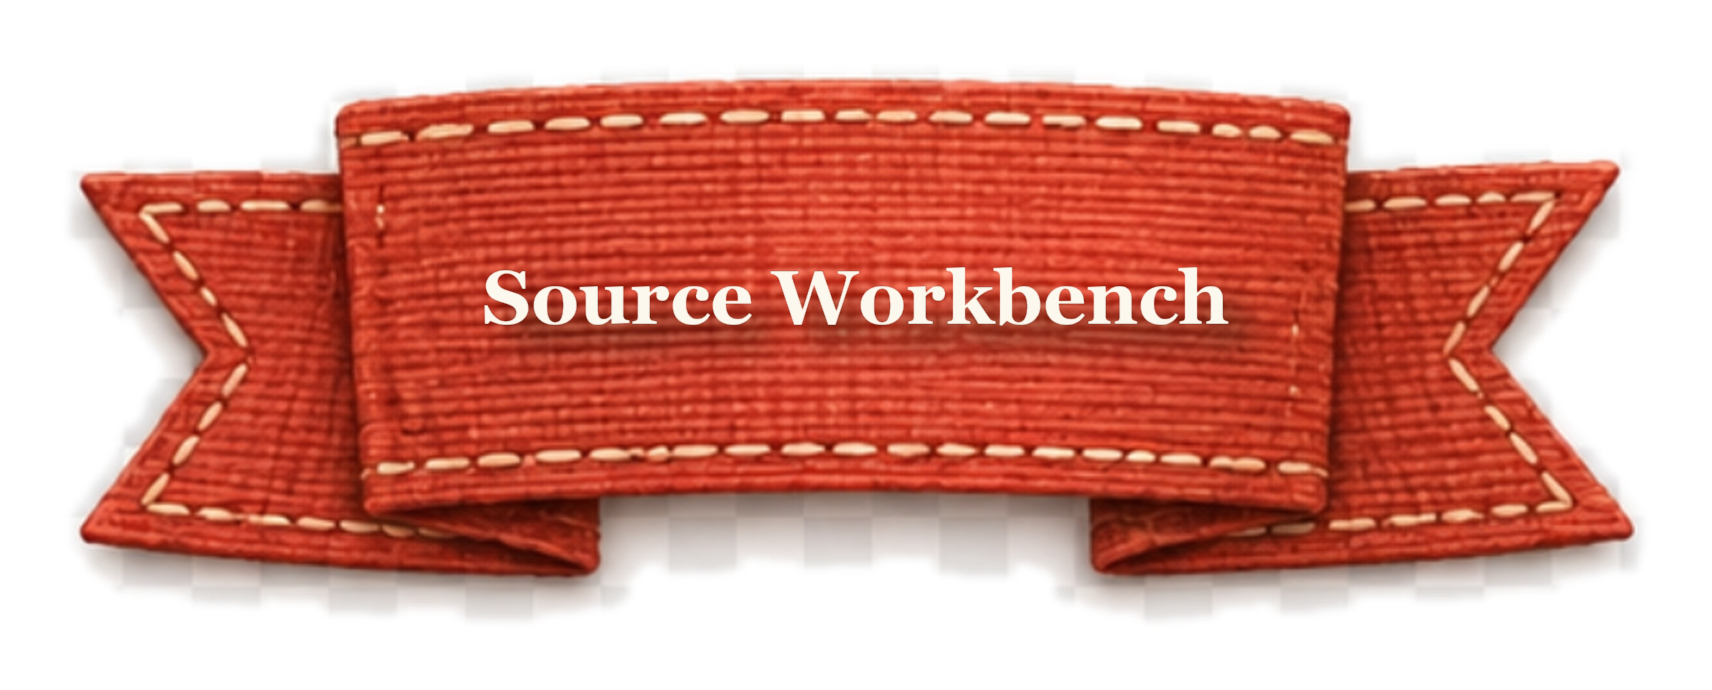
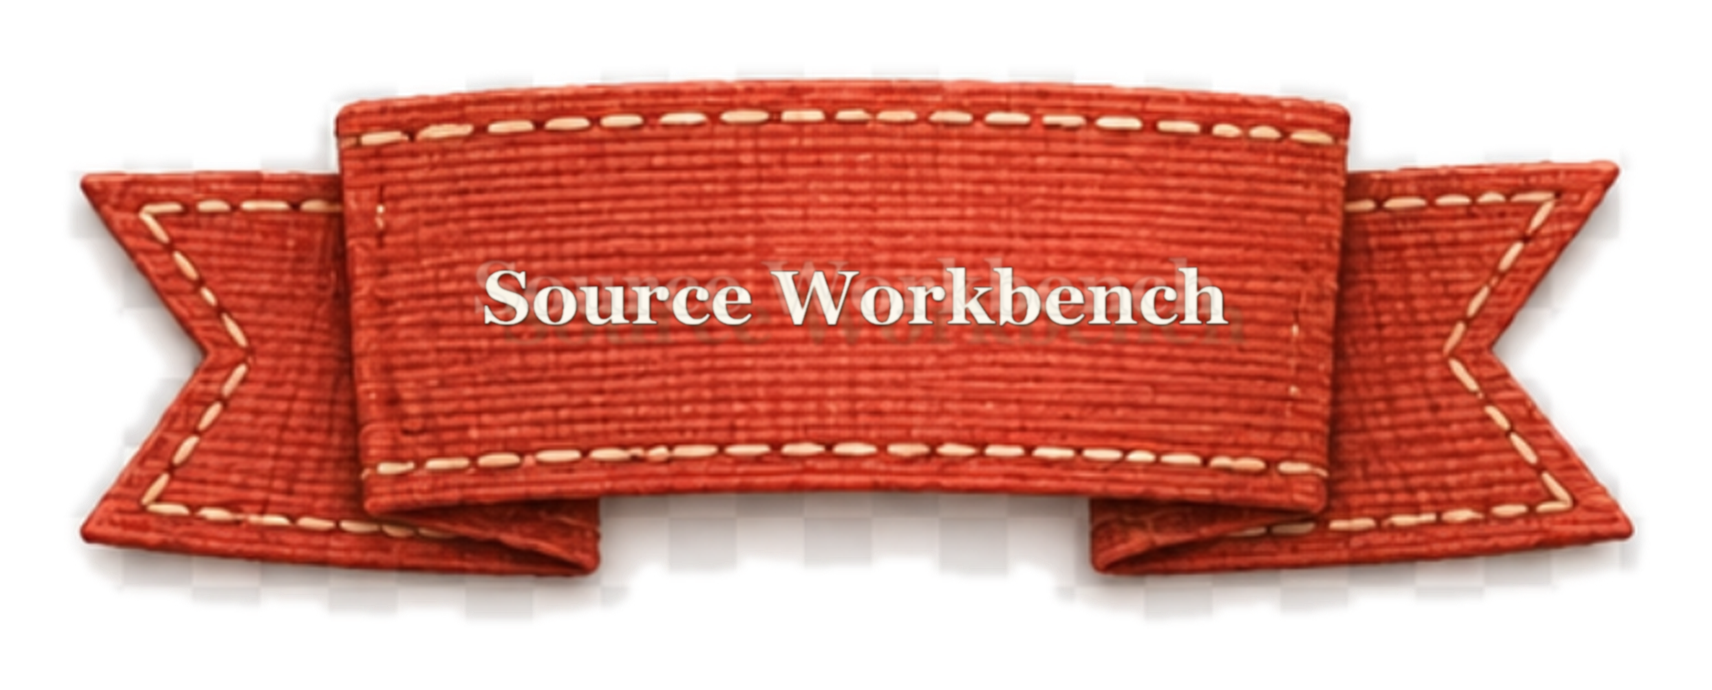
Improve baked-text styling: softer, more embedded appearance

Changed region(s): [[0.2786, 0.3652, 0.743, 0.5174]]

diff --git a/scripts/generate-fixed-ribbon-labels.py b/scripts/generate-fixed-ribbon-labels.py
@@ -68,14 +68,24 @@ def find_font(size: int) -> ImageFont.FreeTypeFont | ImageFont.ImageFont:
     return ImageFont.load_default()
 
 # ---------------------------------------------------------------------------
-# Text rendering helpers
+# Text colors
 # ---------------------------------------------------------------------------
-CREAM = (253, 248, 238, 255)         # #FDF8EE fully opaque
-SHADOW_DARK = (40, 55, 25, 180)      # warm dark green-brown, semi-transparent
+CREAM = (253, 248, 238, 255)         # #FDF8EE warm cream/ivory, fully opaque
+WARM_GOLD = (243, 238, 220, 80)      # warm golden undertone for subtle inner light, very transparent
+SHADOW_DARK = (40, 55, 25, 140)      # warm dark green-brown, semi-transparent; creates inset feel
+SHADOW_SOFT = (80, 100, 60, 60)      # softer shadow for embossed effect
 
 def render_text_layer(width: int, height: int, text: str, font) -> Image.Image:
     """
-    Render text onto a transparent layer with a two-pass shadow + main text.
+    Render text onto a transparent layer with multi-pass technique to create
+    a printed/pressed-into-fabric appearance rather than "text on top" look.
+    
+    Technique:
+    1. Soft shadow layer (embossed/inset feel)
+    2. Dark inset shadow (depth)
+    3. Main cream text with edge softening
+    4. Subtle gold highlight (printed material integration)
+    
     Returns an RGBA image the same size as the ribbon.
     """
     layer = Image.new("RGBA", (width, height), (0, 0, 0, 0))
@@ -93,24 +103,41 @@ def render_text_layer(width: int, height: int, text: str, font) -> Image.Image:
     tx = cx - text_w // 2 - bbox[0]
     ty = cy - text_h // 2 - bbox[1]
 
-    # --- Shadow pass (offset down-right by 1.5% of width, blurred) ---
-    shadow_offset = max(2, int(width * 0.015))
-    shadow_layer = Image.new("RGBA", (width, height), (0, 0, 0, 0))
-    sdraw = ImageDraw.Draw(shadow_layer)
-    sdraw.text((tx + shadow_offset, ty + shadow_offset), text, font=font, fill=SHADOW_DARK)
-    shadow_layer = shadow_layer.filter(ImageFilter.GaussianBlur(radius=max(1, shadow_offset * 0.6)))
+    shadow_offset = max(1, int(width * 0.012))
+    inset_offset = 1
 
-    # --- Main text pass ---
+    # --- Layer 1: Soft embossed shadow (creates inset depth) ---
+    soft_shadow_layer = Image.new("RGBA", (width, height), (0, 0, 0, 0))
+    ssdraw = ImageDraw.Draw(soft_shadow_layer)
+    ssdraw.text((tx + shadow_offset, ty + shadow_offset), text, font=font, fill=SHADOW_SOFT)
+    soft_shadow_layer = soft_shadow_layer.filter(ImageFilter.GaussianBlur(radius=2.0))
+
+    # --- Layer 2: Darker inset shadow (adds dimensionality, "pressed" feel) ---
+    dark_shadow_layer = Image.new("RGBA", (width, height), (0, 0, 0, 0))
+    dsdraw = ImageDraw.Draw(dark_shadow_layer)
+    dsdraw.text((tx + inset_offset, ty + inset_offset), text, font=font, fill=SHADOW_DARK)
+    dark_shadow_layer = dark_shadow_layer.filter(ImageFilter.GaussianBlur(radius=1.2))
+
+    # --- Layer 3: Main cream text with generous softening ---
+    # More blur than before to reduce digital crispness; lettering feels hand-printed
     main_layer = Image.new("RGBA", (width, height), (0, 0, 0, 0))
     mdraw = ImageDraw.Draw(main_layer)
     mdraw.text((tx, ty), text, font=font, fill=CREAM)
+    main_layer = main_layer.filter(ImageFilter.GaussianBlur(radius=1.0))  # increased from 0.5
 
-    # Very slight softening on the main text to reduce "crisp browser" feel
-    main_layer = main_layer.filter(ImageFilter.GaussianBlur(radius=0.5))
+    # --- Layer 4: Subtle warm-gold highlight (material integration) ---
+    # Optional: very subtle, helps text feel like part of the fabric surface
+    gold_layer = Image.new("RGBA", (width, height), (0, 0, 0, 0))
+    ggdraw = ImageDraw.Draw(gold_layer)
+    # Slight offset up-left to create subtle highlight
+    ggdraw.text((tx - shadow_offset // 2, ty - shadow_offset // 2), text, font=font, fill=WARM_GOLD)
+    gold_layer = gold_layer.filter(ImageFilter.GaussianBlur(radius=1.5))
 
-    # Composite: shadow first, then main text
-    layer = Image.alpha_composite(layer, shadow_layer)
+    # Composite all layers: soft shadow → dark shadow → main → gold highlight
+    layer = Image.alpha_composite(layer, soft_shadow_layer)
+    layer = Image.alpha_composite(layer, dark_shadow_layer)
     layer = Image.alpha_composite(layer, main_layer)
+    layer = Image.alpha_composite(layer, gold_layer)
 
     return layer
 
